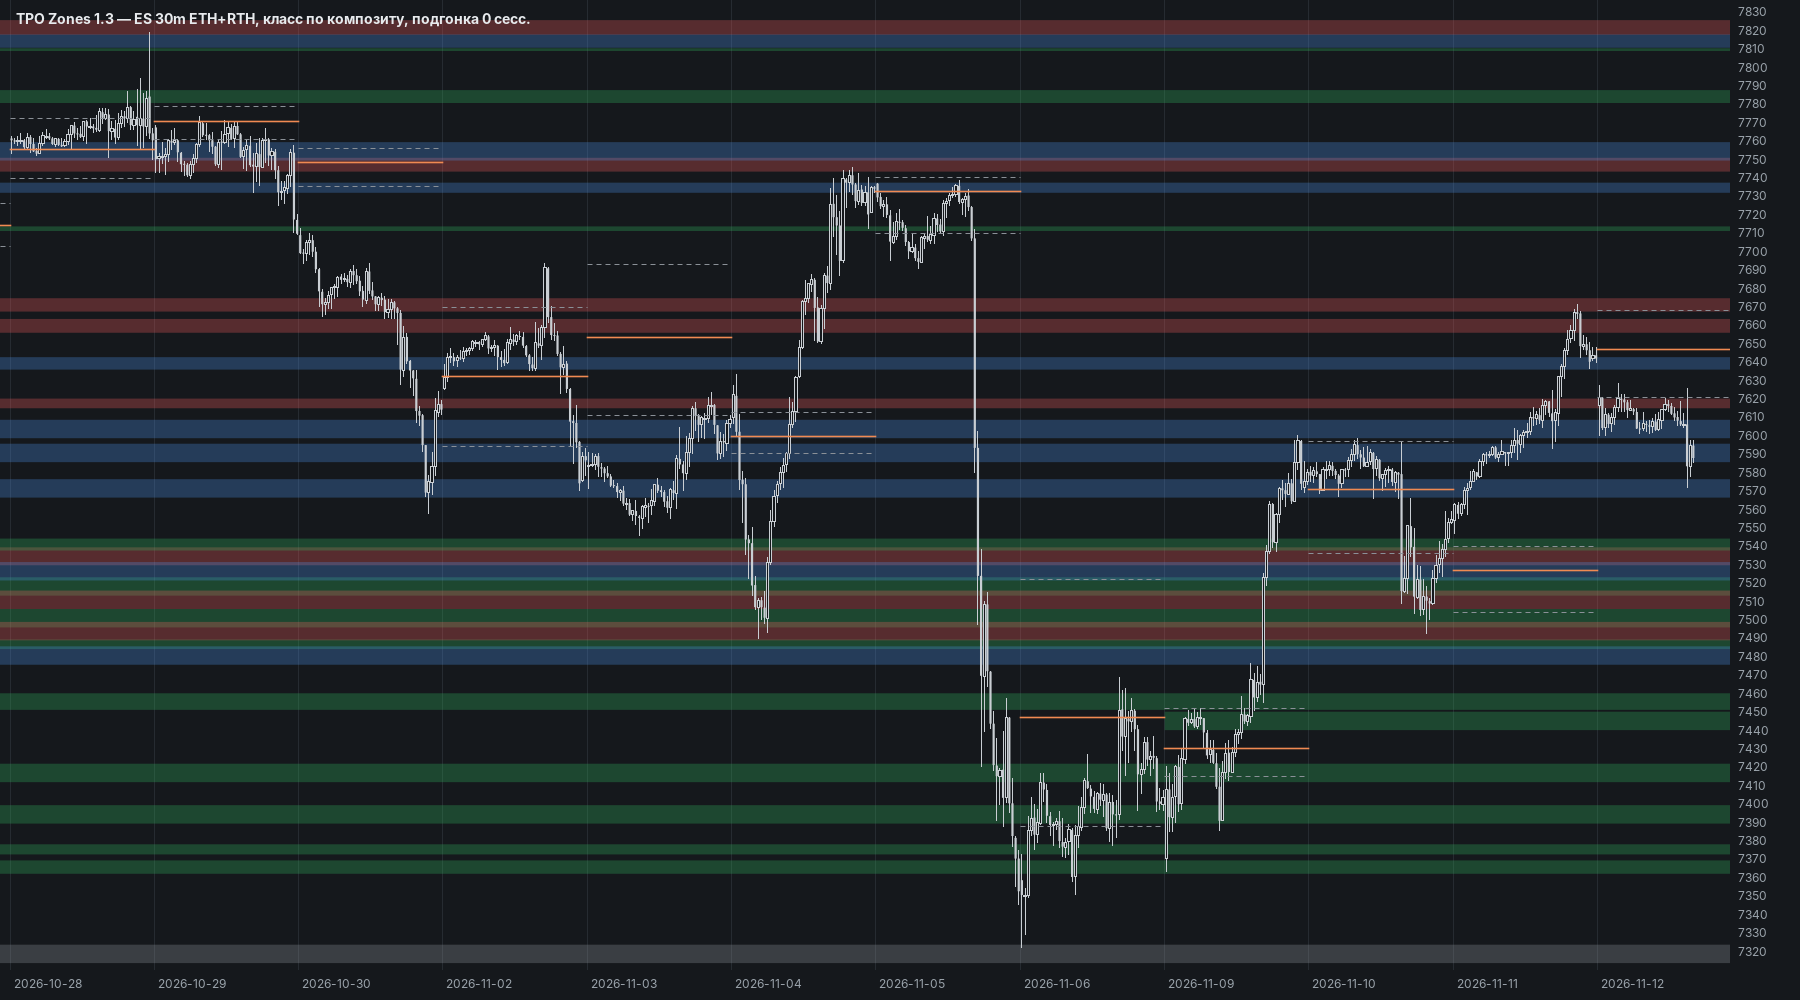
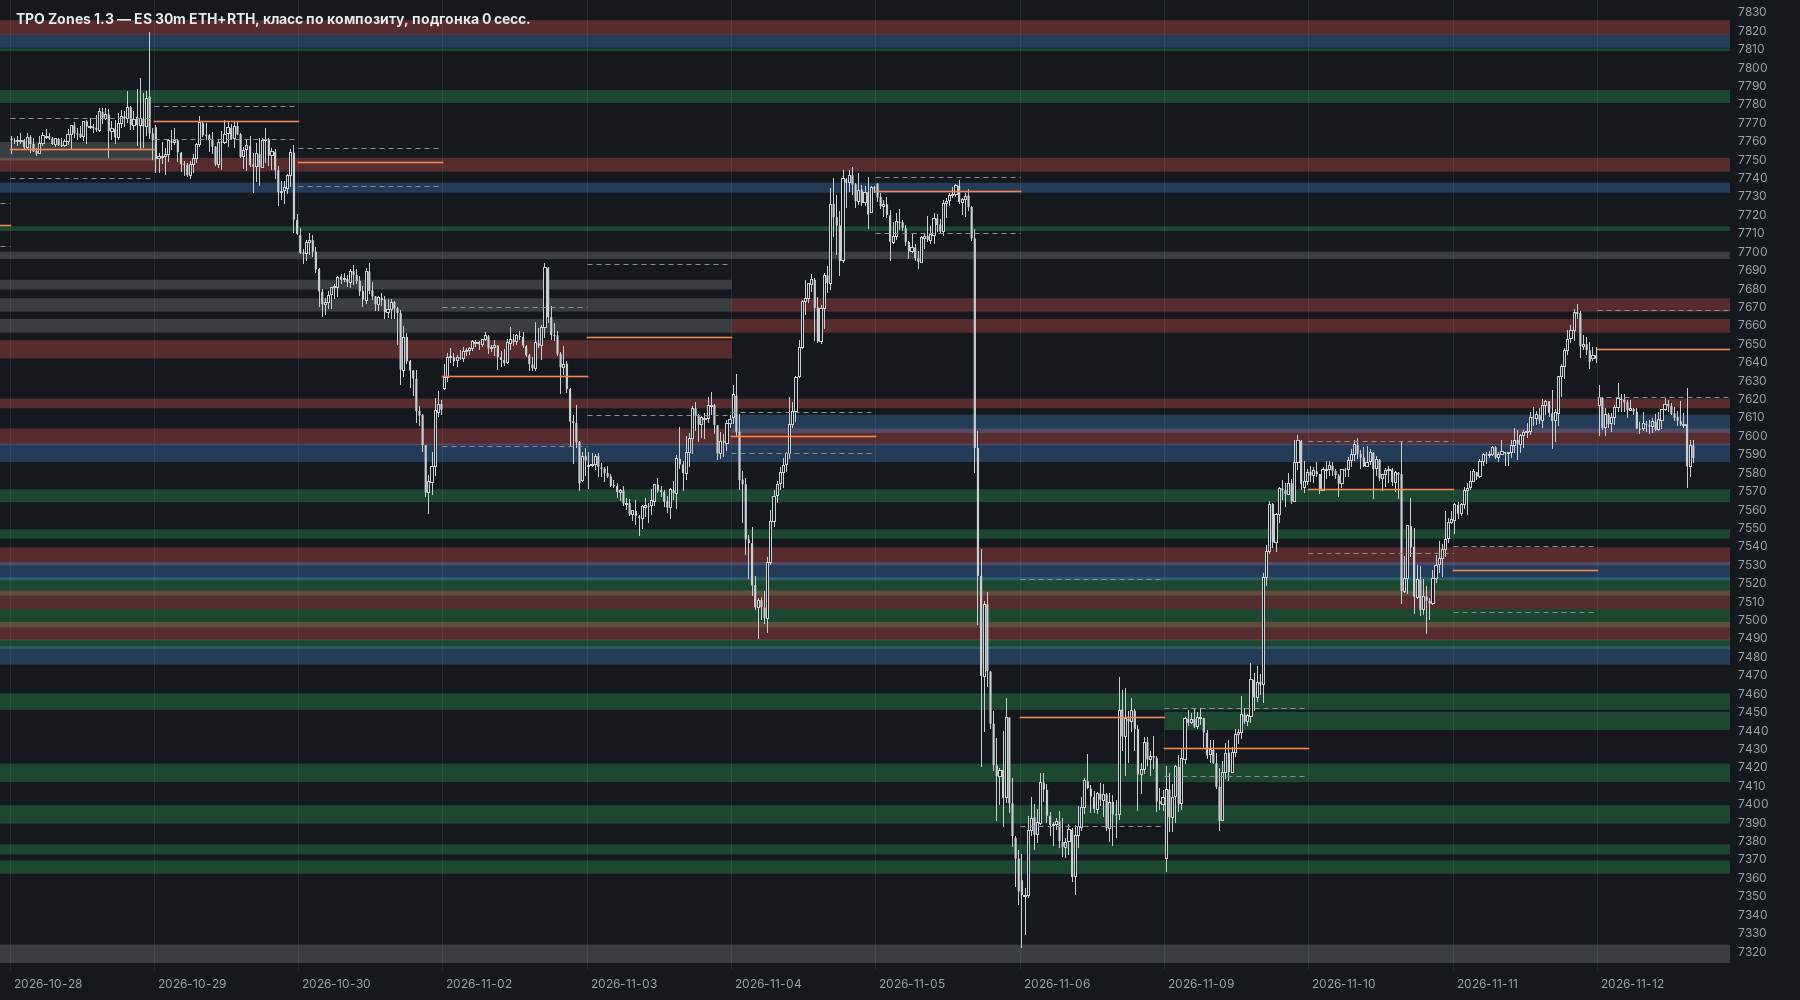
1.3: composites inside an earlier balance refine it
A composite whose range lies at least 70% inside an earlier balance (no more
than 2x wider) gives no balance of its own: its core becomes a grey zone and
the parent keeps governing support and resistance there. The June-July
range now has one core (2026-06-17..22, 7586-7596) instead of three stacked
ones from 06-30..07-09, 07-10..16 and 07-17..22.

Claude-Session: https://claude.ai/code/session_01PTkoju45i5ZphCgSn4vnkL

Changed region(s): [[0.0, 0.403, 0.9644, 0.558], [0.0, 0.248, 0.9644, 0.372], [0.0933, 0.124, 0.9644, 0.186]]

diff --git a/motivewave/src/patterns/zones/ZoneEngine.java b/motivewave/src/patterns/zones/ZoneEngine.java
@@ -81,6 +81,8 @@ public final class ZoneEngine {
         public double coreAbsorb = 0.30;
         public boolean coreFromSessions = true;   // ядро до обрыва TPO; баланс — если VA дней задевают ядро
         public int coreCliffTpo = 4;              // обрыв: строка на N принтов ниже максимума предыдущего 1 п. (4 тика)
+        public double subOverlap = 0.70;          // ≥ этой доли диапазона композита внутри раннего баланса — уточнение (0 — выкл.)
+        public double subMaxRatio = 2.0;          // ... если тот баланс не шире композита больше чем в столько раз
         public double coreMinDaysShare = 0.5;     // ядро признаётся, если его задевают VA ≥ этой доли дней композита;
                                                   // иначе это не баланс — композит не используется (0 — выкл.)
         public double joinGapPts = 0.25;          // режим «по композиту»: зона того же вида ближе этого к более
@@ -198,6 +200,7 @@ public final class ZoneEngine {
     public static final class Zone {
         public int k; public double lo, hi; public LocalDate av; public String src;
         public boolean young; public LocalDate greyUntil;   // young && greyUntil == null — серая всё время
+        public boolean fixedGrey;                            // ядро композита-уточнения: всегда серая
         int formationDays; List<LocalDate> conf = List.of();
         // события (дни от 1970-01-01)
         public long[] L = new long[0], S = new long[0];
@@ -212,6 +215,7 @@ public final class ZoneEngine {
     /** Композит ≥ compositeMinDays: диапазон и его ядро (зона проторговки). */
     public static final class Comp {
         public double lo, hi; public LocalDate start, end, av; public int days; public Zone core;
+        public Comp parent;                                  // уточнение внутри более раннего баланса
     }
 
     /** Состояние зоны на сессию. */
@@ -237,7 +241,8 @@ public final class ZoneEngine {
         public final List<List<Shown>> visible = new ArrayList<>();  // по сессиям
         public int rthDays, fullDays, composites;
         public final List<Comp> comps = new ArrayList<>();
-        public final List<Comp> notBalance = new ArrayList<>();      // композиты, где дни не сошлись (без ядра)
+        public final List<Comp> notBalance = new ArrayList<>();
+        public final List<Comp> subComps = new ArrayList<>();        // уточнения внутри баланса (ядро — серая зона)      // композиты, где дни не сошлись (без ядра)
         public String note = "";
     }
 
@@ -326,6 +331,27 @@ public final class ZoneEngine {
             if (w >= p.greyMinWidthPts - 1e-9 && w <= p.greyMaxWidthPts + 1e-9) zones.add(z);
         }
         if (p.compositeMode) {
+            // композит, чей диапазон почти целиком внутри более раннего баланса, — уточнение: своего баланса
+            // не даёт, его ядро — серая зона, ценой в этом диапазоне управляет родитель
+            if (p.subOverlap > 0) {
+                List<Comp> parents = new ArrayList<>();
+                for (Comp c : res.comps) {
+                    double w = c.hi - c.lo;
+                    Comp par = null;
+                    for (int i = parents.size() - 1; i >= 0 && par == null; i--) {
+                        Comp q = parents.get(i);
+                        double inter = Math.min(c.hi, q.hi) - Math.max(c.lo, q.lo);
+                        if (inter >= p.subOverlap * w && q.hi - q.lo <= p.subMaxRatio * w) par = q;
+                    }
+                    if (par == null) { parents.add(c); continue; }
+                    c.parent = par;
+                    res.subComps.add(c);
+                    Zone g = new Zone();
+                    g.k = K_GREY; g.src = "sub"; g.fixedGrey = true; g.av = c.av; g.lo = c.core.lo; g.hi = c.core.hi;
+                    zones.add(g);
+                }
+                res.comps.clear(); res.comps.addAll(parents);
+            }
             // ядра: новое, пересекающее существующее ≥ mergeOverlapMin (от более узкого), его подтверждает
             List<Zone> cores = new ArrayList<>();
             Map<Zone, List<Long>> cc = new HashMap<>();
@@ -695,6 +721,11 @@ public final class ZoneEngine {
         if (p.compositeMode && z.k == K_CORE) {
             st.kind = Kind.CORE; st.rej = tot; st.purity = tot >= 1 ? Math.max(st.nl, st.ns) / (double) tot : null;
             st.age = o - z.avOrd(); st.conf = lowerBound(z.coreConf, o);
+            return st;
+        }
+        if (p.compositeMode && z.fixedGrey) {
+            st.kind = Kind.GREY; st.rej = tot; st.purity = tot >= 1 ? Math.max(st.nl, st.ns) / (double) tot : null;
+            st.age = o - z.avOrd();
             return st;
         }
         if (p.compositeMode && (z.k == K_HVN || z.k == K_GREY)) {

diff --git a/motivewave/src/patterns/zones/TpoZonesStudy.java b/motivewave/src/patterns/zones/TpoZonesStudy.java
@@ -56,7 +56,7 @@ import patterns.zones.ZoneEngine.Result;
 public class TpoZonesStudy extends Study {
 
     // ---- ключи настроек
-    static final String CLIFF = "coreCliff", CORE_DAYS = "coreMinDays", CORE_SESS = "coreFromSessions", JOIN_GAP = "joinGap", ZONE_W = "zoneMaxW", MODE = "compositeMode", CORE_VA = "coreByVa", BAR30 = "bar30", HISTORY_DAYS = "historyDays", TZ = "tz", RTH_START = "rthStart",
+    static final String SUB_OV = "subOverlap", SUB_RATIO = "subRatio", CLIFF = "coreCliff", CORE_DAYS = "coreMinDays", CORE_SESS = "coreFromSessions", JOIN_GAP = "joinGap", ZONE_W = "zoneMaxW", MODE = "compositeMode", CORE_VA = "coreByVa", BAR30 = "bar30", HISTORY_DAYS = "historyDays", TZ = "tz", RTH_START = "rthStart",
             RTH_END = "rthEnd", ETH_START = "ethStart", TICK = "tick", VA_PCT = "vaPct", HVN_SHARE = "hvnShare",
             HVN_MIN = "hvnMin", HVN_MAX = "hvnMax", GHVN_MIN = "greyHvnMin", GHVN_MAX = "greyHvnMax",
             MERGE_OV = "mergeOv", MERGE_W = "mergeW", COMP_DAYS = "compDays", GREY_HIST = "greyHist",
@@ -91,6 +91,8 @@ public class TpoZonesStudy extends Study {
         g.addRow(new BooleanDescriptor(CORE_SESS, "Ядро по профилю композита: от POC до обрыва TPO, баланс — по VA дней", true));
         g.addRow(new IntegerDescriptor(CLIFF, "Обрыв TPO: строка на N принтов ниже максимума предыдущего 1 п. — граница ядра (0 — выкл.)", 4, 0, 50, 1));
         g.addRow(new DoubleDescriptor(CORE_DAYS, "Композит — баланс, если ядро задевают VA ≥ доли его дней (0 — любой)", 0.5, 0, 1, 0.05));
+        g.addRow(new DoubleDescriptor(SUB_OV, "Уточнение: ≥ доли диапазона композита внутри раннего баланса — его ядро серое (0 — выкл.)", 0.70, 0, 1, 0.05));
+        g.addRow(new DoubleDescriptor(SUB_RATIO, "Уточнение: если тот баланс не шире композита больше чем в, раз", 2.0, 1, 10, 0.1));
         g.addRow(new DoubleDescriptor(JOIN_GAP, "Соседние зоны одного вида ближе, п. — подтверждение старой (−1 — выкл.)", 0.25, -1, 10, 0.25));
         g = tab.addGroup("Типы зон");
         g.addRow(new BooleanDescriptor(SHOW.get(Kind.HVN_S), Kind.HVN_S.title, true));
@@ -242,6 +244,8 @@ public class TpoZonesStudy extends Study {
         p.coreFromSessions = st.getBoolean(CORE_SESS, true);
         p.coreMinDaysShare = st.getDouble(CORE_DAYS, 0.5);
         p.coreCliffTpo = st.getInteger(CLIFF, 4);
+        p.subOverlap = st.getDouble(SUB_OV, 0.70);
+        p.subMaxRatio = st.getDouble(SUB_RATIO, 2.0);
         p.joinGapPts = st.getDouble(JOIN_GAP, 0.25);
         p.minWickTicks = st.getInteger(WICK, 2);
         p.sessions = st.getInteger(SESSIONS, 250);

diff --git a/motivewave/src/patterns/zones/ZonePlan.java b/motivewave/src/patterns/zones/ZonePlan.java
@@ -83,7 +83,7 @@ public final class ZonePlan {
         if (v.st.comp != null) b.append("\nкомпозит ").append(v.st.comp.start).append(" – ").append(v.st.comp.end)
                 .append(" (").append(v.st.comp.days).append(" дн., ").append(fmt(v.st.comp.lo)).append(" – ").append(fmt(v.st.comp.hi))
                 .append("), ядро ").append(fmt(v.st.comp.core.blo)).append(" – ").append(fmt(v.st.comp.core.bhi));
-        if (z.k == ZoneEngine.K_GREY) b.append("\nисточник: ").append("comp".equals(z.src) ? "короткий композит (2 дня)" : "слабый HVN (5–7 TPO)");
+        if (z.k == ZoneEngine.K_GREY) b.append("\nисточник: ").append("comp".equals(z.src) ? "короткий композит (2 дня)" : "sub".equals(z.src) ? "ядро композита-уточнения внутри баланса" : "слабый HVN (5–7 TPO)");
         if (z.young) b.append("\nмолодая первородная: серая ").append(z.greyUntil == null ? "до конца данных" : "до " + z.greyUntil);
         if (v.st.promoted) b.append("\nбыла серой, переведена по отторжениям за подгонку");
         if (p.alignSessions > 0 && (z.blo != z.lo || z.bhi != z.hi))

diff --git a/motivewave/README.md b/motivewave/README.md
@@ -20,7 +20,7 @@
 
 - **1.3** (ветка `zones-1.3`) — ядро композита от POC до обрыва TPO (не уходит за падение принтов),
   композит — баланс, только если VA его дней задевают ядро, зона, родившаяся во время композита,
-  переходит к нему, когда он сложится.
+  переходит к нему, когда он сложится, композит внутри раннего баланса — уточнение (ядро серое).
 - **1.2** — класс зон по положению в TPO-композите (ядро — проторговка, выше — сопротивление,
   ниже — поддержка, вне композитов — серые), склейка соседних зон одного вида, зоны не шире 10 п.,
   заливка 30% без линий границ. Режим «по отторжениям» из 1.1 — галочкой.
@@ -57,6 +57,12 @@
 0 — любой композит). Иначе ядра нет и композит не делит цену на поддержку / сопротивление.
 Отсеивается 20 из 173 — широкие трендовые движения (медиана диапазона 133 п. против 92);
 зоны внутри них остаются серыми, пока их не накроет баланс.
+
+**Уточнения внутри баланса:** композит, чей диапазон на ≥ 70% лежит внутри более раннего
+баланса (и тот не шире больше чем в 2 раза), своего баланса не даёт: его ядро — серая зона,
+поддержкой / сопротивлением в этом диапазоне управляет родитель. Пример — ренж 17.06–22.06
+(ядро 7586–7596, в MotiveWave на ESZ6 ≈ 7540–7550): композиты 30.06–09.07, 10.07–16.07,
+17.07–22.07 внутри него — уточнения, их ядра 7599–7609, 7636–7643, 7567–7577 серые.
 
 **Соседи склеиваются:** новое ядро, касающееся существующего (зазор ≤ 0.25 п.), — его
 подтверждение; зона поддержки / сопротивления вплотную к более старой видимой зоне того же
